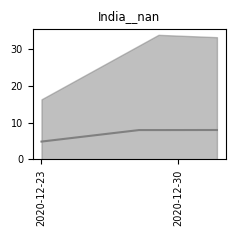
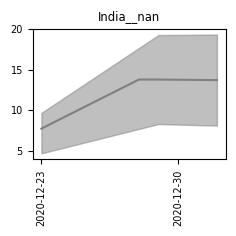
validation

diff --git a/predict/rf/predict.py b/predict/rf/predict.py
@@ -243,8 +243,6 @@ def predict(start_date, end_date, path_to_ips_file, output_file_path):
             if X[0]>threshold:
                 for model in high_models:
                     model_preds.append(model.predict(np.array([X]))[0])
-                for model in low_models:
-                    model_preds.append(model.predict(np.array([X]))[0])
             else:
                 for model in low_models:
                     model_preds.append(model.predict(np.array([X]))[0])
